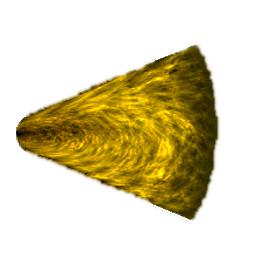
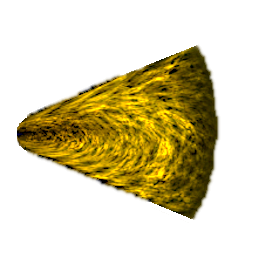
Jump gate img refine

diff --git a/source/server/model/ships/terrain/SpawnJumpPoint.php b/source/server/model/ships/terrain/SpawnJumpPoint.php
@@ -87,7 +87,7 @@ class SpawnJumpPoint extends Terrain{
         $this->pointCost = 0; //never bought, and must not disturb any fleet value it slips past
         $this->faction = "Terrain";
         $this->phpclass = "SpawnJumpPoint";
-        $this->imagePath = "img/ships/JumpPointExit.png";
+        $this->imagePath = "img/ships/JumpPointEntrance.png";
         $this->canvasSize = 200;
         $this->shipClass = "Jump Vortex";
         $this->variantOf = 'NONE'; //hidden from the lobby - see the class comment
